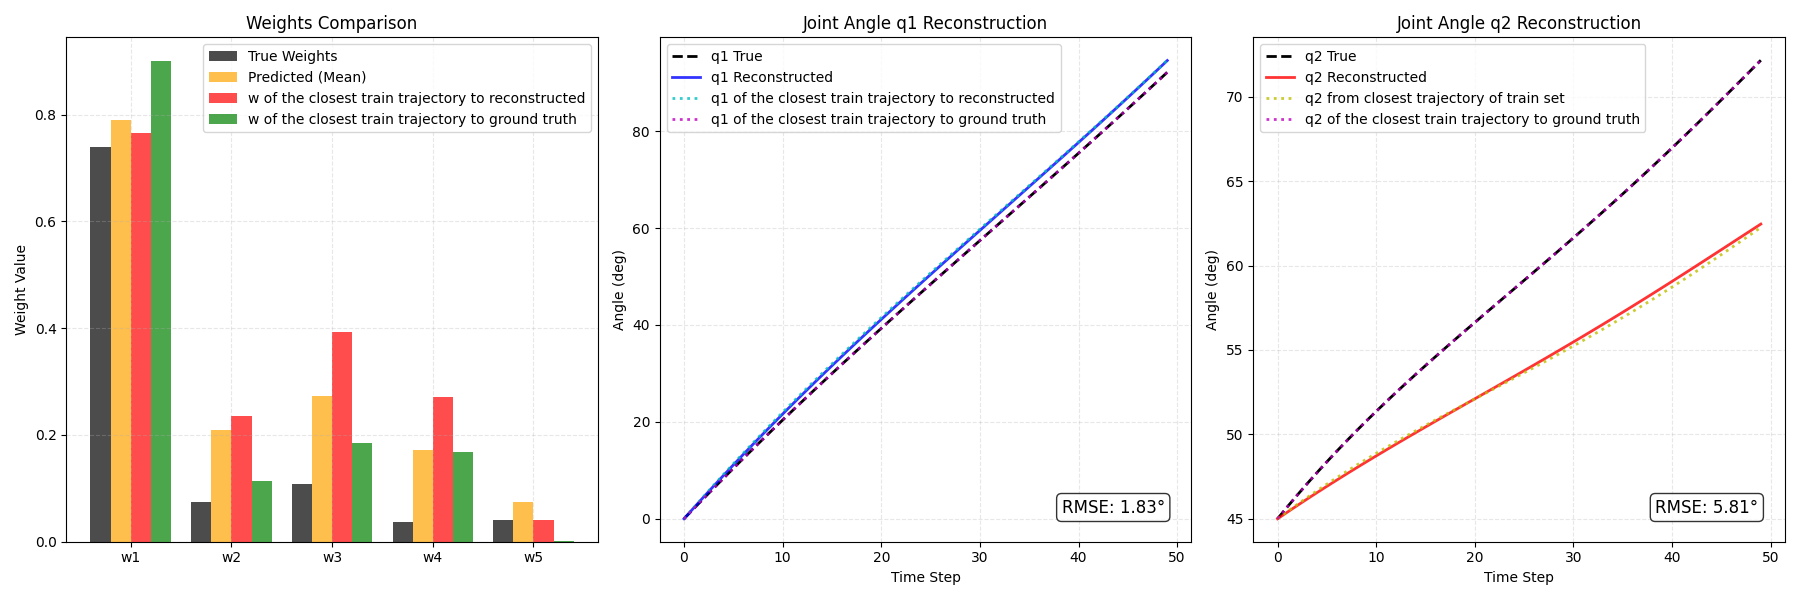
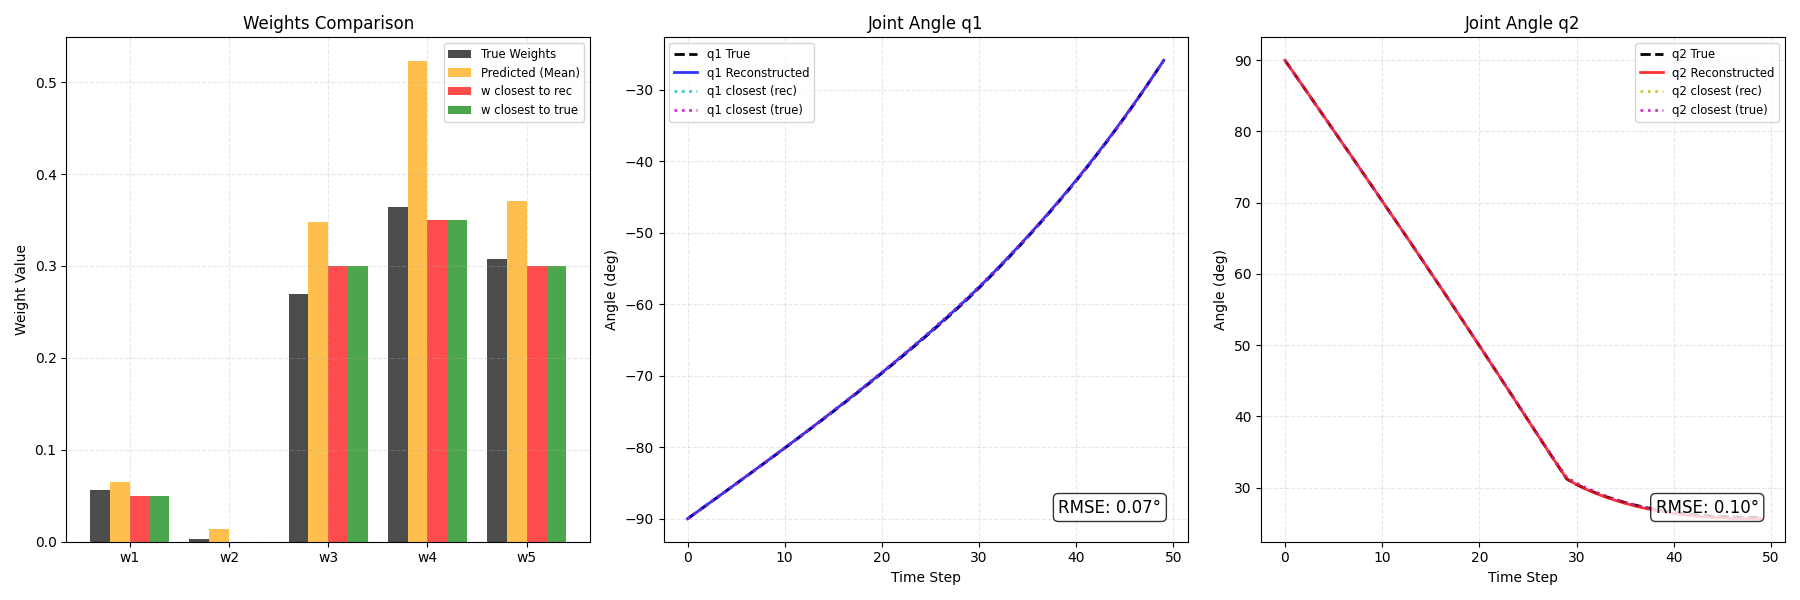
Update (11) : adding adjusted test script and weights of the training

diff --git a/Starting/11 - Diffusion model for weights cost learning (expanding window, adding costs features)/scripts/test_unseen_trajectory_reconstruction_without_scaler_check_with_closest_new.py b/Starting/11 - Diffusion model for weights cost learning (expanding window, adding costs features)/scripts/test_unseen_trajectory_reconstruction_without_scaler_check_with_closest_new.py
@@ -10,8 +10,8 @@ import time
 # ADDING CURRENT FOLDER TO THE PATH OF PACKAGES
 import sys
 sys.path.append(os.getcwd())
-from tools.diffusion_model import ConditionalDiffusionModel
-from tools.OCP_solving_cpin import solve_DOC
+from tools.diffusion_model_with_angular_velocities import ConditionalDiffusionModel
+from tools.OCP_solving_cpin_new import solve_DOC
 
 # Parameters
 DEVICE = "cuda" if torch.cuda.is_available() else "cpu"
@@ -25,9 +25,9 @@ INPUT_CHANNELS = 4  # New parameter: q1, q2, dq1, dq2
 print("Generating Ground Truth trajectory...")
 
 # w of bad case 2
-w_true = np.array([0.73879914, 0.07483681, 0.1084752,  0.03661114, 0.0412777])
-# w_true = np.random.rand(W_DIM)
-# w_true = w_true / np.sum(w_true) # Normalize to sum to 1
+# w_true = np.array([0.73879914, 0.07483681, 0.1084752,  0.03661114, 0.0412777])
+w_true = np.random.rand(W_DIM)
+w_true = w_true / np.sum(w_true) # Normalize to sum to 1
 
 print(f"True Weights: {w_true}")
 
@@ -35,17 +35,19 @@ print(f"True Weights: {w_true}")
 try:
     # Utilisation des fichiers du nouvel entrainement
     train_traj = np.load("data/array_results_angles_simplex_21_lim_joint_velocities_800.npy")
+    train_velocities = np.load("data/array_results_angular_velocities_simplex_21_lim_joint_velocities_800.npy") # ADDED
     w_train = np.load("data/array_w_simplex_21_lim_joint_velocities_800.npy")
 except FileNotFoundError:
     print("Warning: New training data files not found. Trying fallback to old filenames...")
-    train_traj = np.load("data/array_results_angles_10000.npy")
-    w_train = np.load("data/array_w_10000.npy")
+    # train_traj = np.load("data/array_results_angles_10000.npy")
+    # w_train = np.load("data/array_w_10000.npy")
 
 
 try:
     # Generating the ground truth trajectory (q1, q2) AND velocities (dq1, dq2)
     # NOTE: We now capture the second return value (velocities)
-    traj_true_q, traj_true_dq = solve_DOC(w_true, x_fin=-1.0, q_init=np.array([0, np.pi/4]))
+    # traj_true_q, traj_true_dq = solve_DOC(w_true, x_fin=-1.0, q_init=np.array([0, np.pi/4]))
+    traj_true_q, traj_true_dq = solve_DOC(w_true, x_fin = 1.9, q_init = [-np.pi/2, np.pi/2])
     
     # traj_true_q Shape: (50, 2)
     # traj_true_dq Shape: (50, 2)
@@ -57,14 +59,12 @@ except Exception as e:
 distance_array_to_ground_truth = ((train_traj - traj_true_q)**2).mean(axis=(1,2))
 closest_traj_to_ground_truth = np.argmin(distance_array_to_ground_truth)
 
-closest_traj = train_traj[closest_traj_to_ground_truth]
-
 # Load Model
 # Initialize with input_channels=4
 model = ConditionalDiffusionModel(w_dim=W_DIM, input_channels=INPUT_CHANNELS).to(DEVICE)
 
 # Load the trained weights
-model_path = "diffusion_model.pth" # Or "checkpoints/diffusion_model_final.pth"
+model_path = "checkpoints/diffusion_model_final.pth"
 if os.path.exists(model_path):
     model.load_state_dict(torch.load(model_path, map_location=DEVICE))
     print(f"Loaded model from {model_path}")
@@ -121,6 +121,10 @@ observation_length = MAX_LEN
 q_input = traj_true_q[:observation_length]   # (50, 2)
 dq_input = traj_true_dq[:observation_length] # (50, 2)
 
+# TEST: trying to retrieve weights from a train trajectory
+# q_input = train_traj[closest_traj_to_ground_truth][:observation_length]
+# dq_input = train_velocities[closest_traj_to_ground_truth][:observation_length]
+
 # 2. Concatenate along feature dimension -> (50, 4)
 combined = np.concatenate([q_input, dq_input], axis=1)
 
@@ -146,7 +150,7 @@ print(f"Predicted Mean Weights: {w_pred_mean}")
 print("Solving OCP with predicted weights to reconstruct trajectory...")
 try:
     # We only need the angles (first return) for plotting
-    traj_reconstructed, _ = solve_DOC(w_pred_mean, x_fin=-1.0, q_init=np.array([0, np.pi/4]))
+    traj_reconstructed, _ = solve_DOC(w_pred_mean, x_fin = 1.9, q_init = [-np.pi/2, np.pi/2])
 except Exception as e:
     print(f"Error solving OCP for reconstruction: {e}")
     traj_reconstructed = np.zeros_like(traj_true_q)
@@ -219,5 +223,5 @@ plt.tight_layout()
 plt.show()
 
 # Save the figure
-fig.savefig("reconstruction_separated_rmse.png")
-print("Comparison plot saved as 'reconstruction_separated_rmse.png'")
+fig.savefig("reconstruction_separated_rmse_new_traj_with_dq.png")
+print("Comparison plot saved as 'reconstruction_separated_rmse_new_traj_with_dq.png'")
